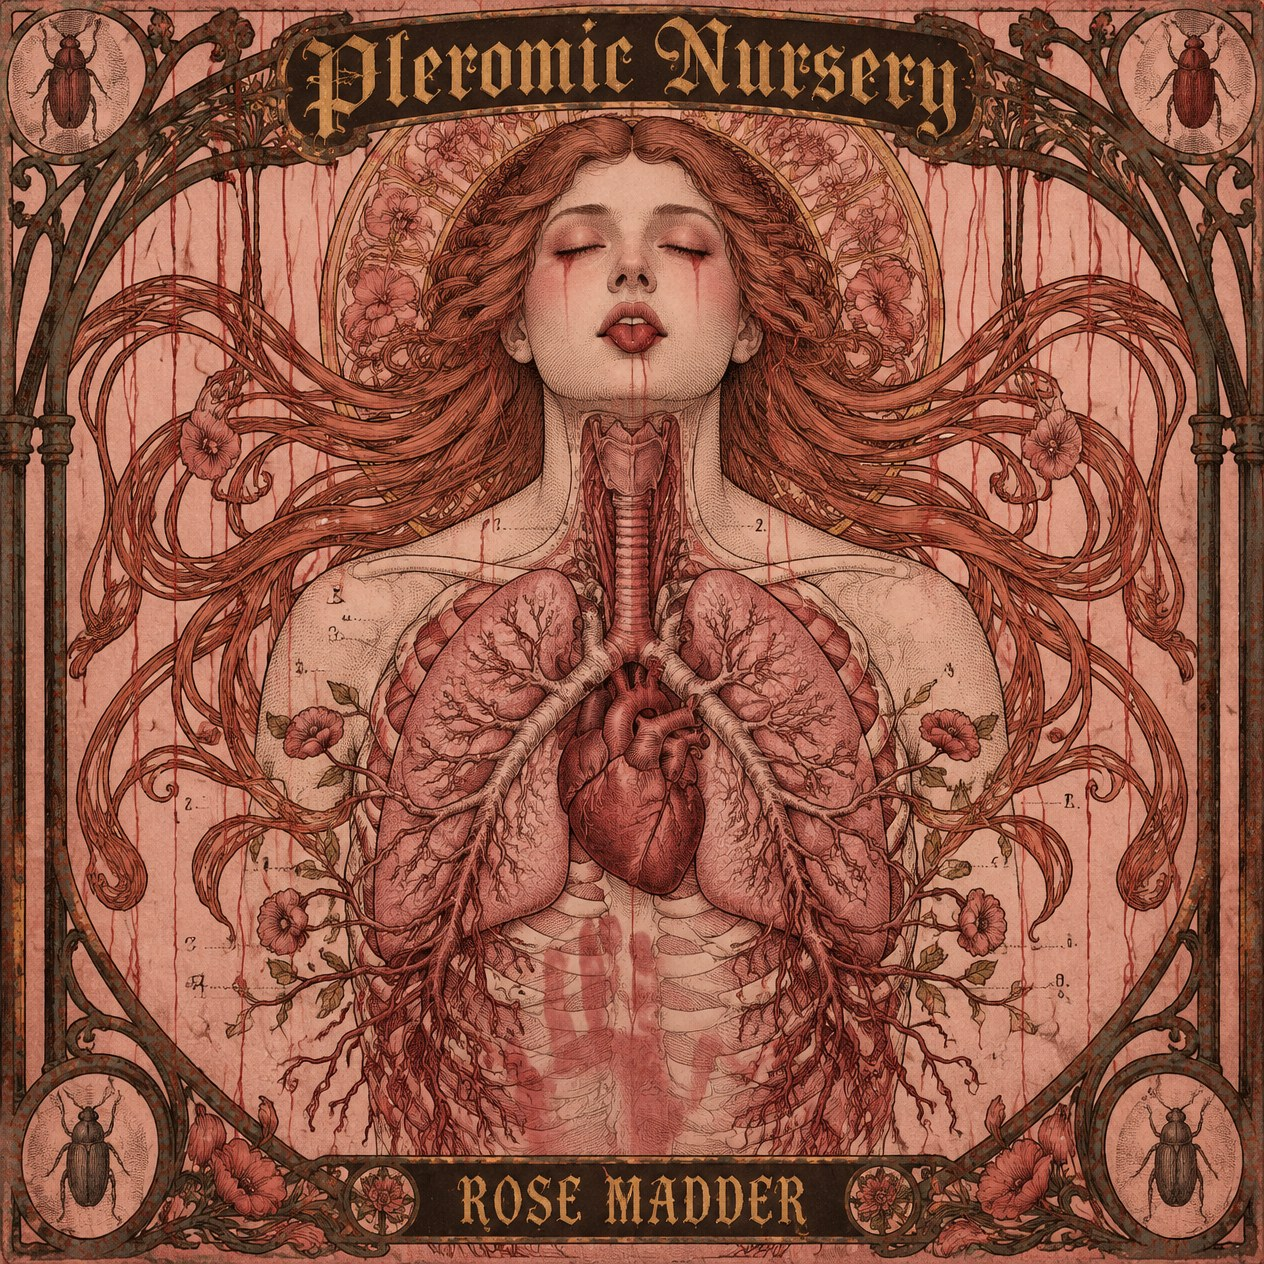
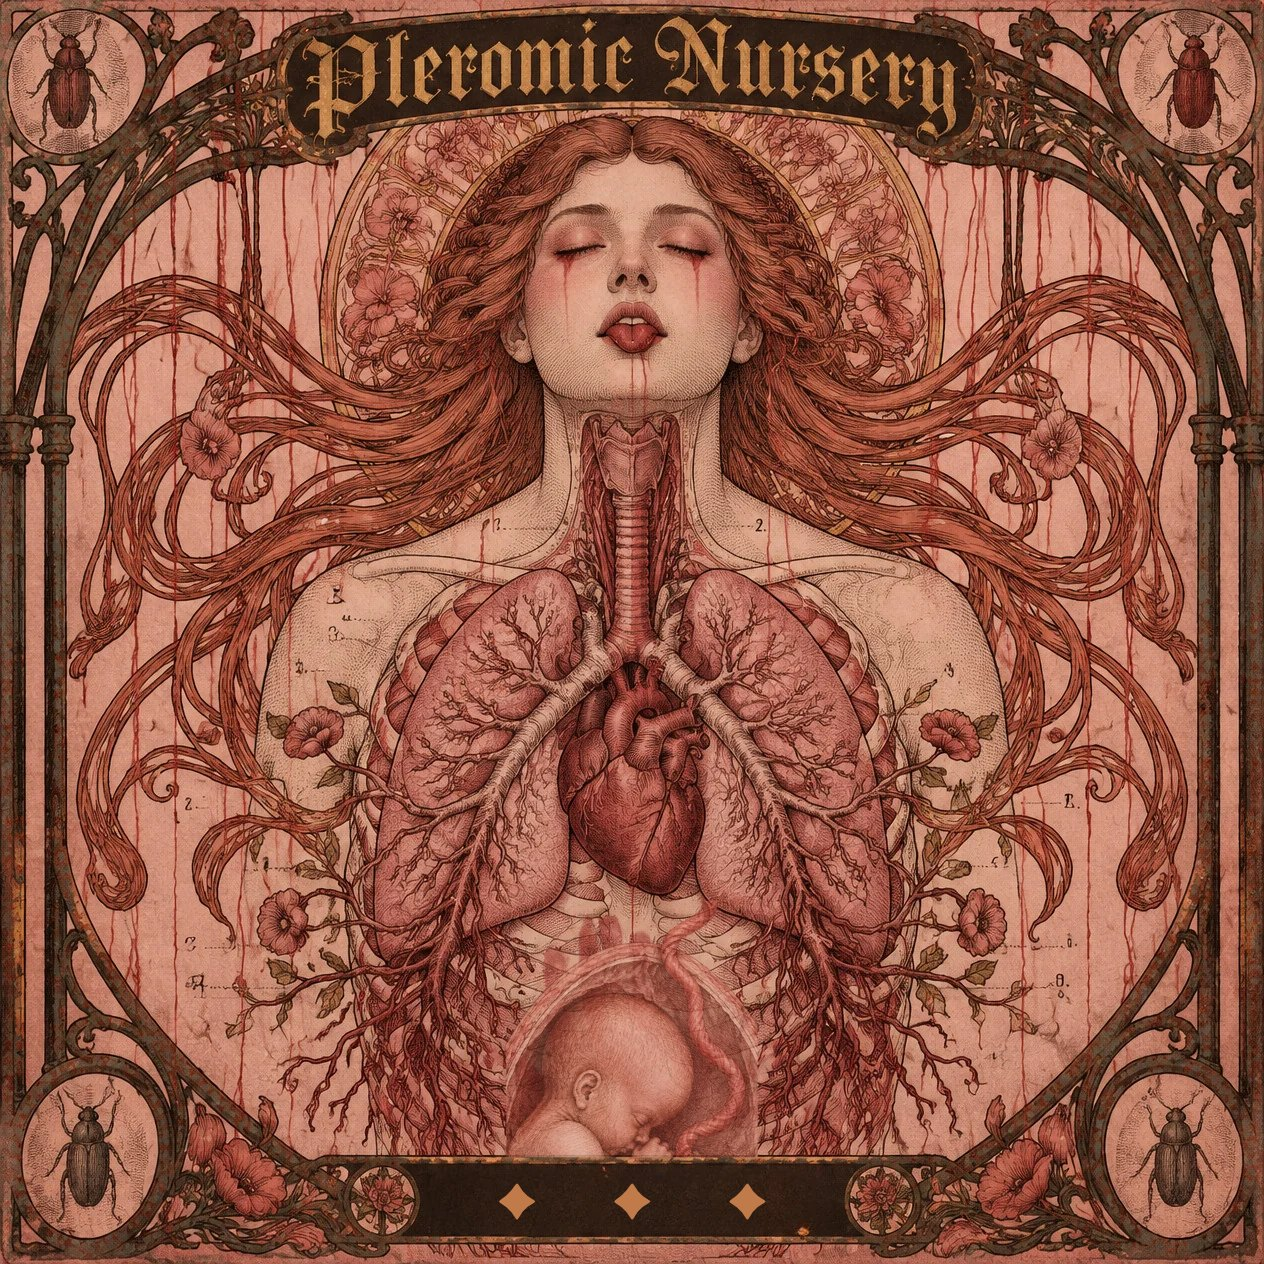
Windward Weave project page with event request form

Changed region(s): [[0.3394, 0.7097, 0.6479, 0.9873]]

diff --git a/assets/site.css b/assets/site.css
@@ -47,12 +47,12 @@ a:focus-visible, button:focus-visible, .row:focus-visible { outline: 2px solid v
 .border--left { left: 6px; transform: scaleX(-1); }
 
 /* ---------- Header ---------- */
-.masthead { position: relative; z-index: 4; display: flex; flex-wrap: wrap; align-items: center; justify-content: space-between; gap: 8px 32px; max-width: 1360px; margin: 0 auto; padding: 18px 24px; }
+.masthead { position: relative; z-index: 4; display: flex; flex-wrap: wrap; align-items: center; justify-content: space-between; gap: 8px 32px; max-width: 1360px; margin: 0 auto; padding: 18px var(--padx); } /* same side padding as .wrap, so the menu ends where the content does */
 .masthead--over { position: absolute; left: 0; right: 0; top: 0; }
 .brand { display: flex; align-items: center; gap: 14px; text-decoration: none; color: var(--gold); min-height: 44px; }
 .brand img { width: 115px; height: 115px; }
 .brand__name { font-family: var(--display); -webkit-text-stroke: 0.035em currentColor; font-size: 32px; line-height: 1; }
-.nav { display: flex; flex-wrap: wrap; gap: 0 28px; }
+.nav { display: flex; flex-wrap: wrap; gap: 0 22px; }
 .nav a { font-family: var(--caps); font-size: 14px; font-weight: 500; letter-spacing: 0.14em; text-transform: uppercase; color: var(--ink); text-decoration: none; padding: 12px 0; }
 .nav a:hover, .nav a[aria-current="page"] { color: var(--gold); }
 
@@ -97,7 +97,7 @@ a:focus-visible, button:focus-visible, .row:focus-visible { outline: 2px solid v
 }
 .tile { position: relative; flex: 0 0 calc(var(--h) * var(--w)); height: var(--h); margin: 0; scroll-snap-align: start; background: var(--paper); overflow: hidden; }
 .tile img { width: 100%; height: 100%; object-fit: cover; }
-.tile figcaption, .gallery__item figcaption, .release figcaption { position: absolute; left: 0; right: 0; bottom: 0; display: flex; justify-content: space-between; align-items: baseline; gap: 12px; padding: 48px 18px 16px; background: linear-gradient(180deg, rgba(46,16,24,0) 0%, rgba(46,16,24,0.9) 100%); }
+.tile figcaption, .gallery__item figcaption, .release figcaption, .project-card__caption { position: absolute; left: 0; right: 0; bottom: 0; display: flex; justify-content: space-between; align-items: baseline; gap: 12px; padding: 48px 18px 16px; background: linear-gradient(180deg, rgba(46,16,24,0) 0%, rgba(46,16,24,0.9) 100%); }
 .tile__title { font-style: italic; font-size: 21px; color: var(--ink); }
 .tile__note { font-family: var(--caps); font-size: 12px; letter-spacing: 0.14em; text-transform: uppercase; color: var(--madder); }
 
@@ -217,3 +217,60 @@ a:focus-visible, button:focus-visible, .row:focus-visible { outline: 2px solid v
 .gallery__item { position: relative; }
 .show-names [data-name]::before { content: attr(data-name); position: absolute; top: 10px; right: 10px; z-index: 2; padding: 6px 10px; background: rgba(46,16,24,0.92); color: var(--gold); font-family: var(--caps); font-size: 13px; letter-spacing: 0.08em; border-radius: 4px; opacity: 0; transition: opacity 0.15s; pointer-events: none; }
 .show-names [data-name]:hover::before, .show-names [data-name]:focus-within::before { opacity: 1; }
+
+/* ---------- Project pages (/projects) ---------- */
+.gallery--project { margin-bottom: 56px; }
+.project__story { margin: 0 auto 64px; }
+.request { padding-top: 24px; border-top: 1px solid var(--rose); }
+.request .intro { margin: 16px 0 32px; }
+
+/* Project cards on the Visual Art page. */
+.project-cards { display: grid; grid-template-columns: repeat(auto-fill, minmax(280px, 1fr)); gap: 20px; margin-bottom: 48px; }
+.project-card { position: relative; display: block; aspect-ratio: 4 / 3; overflow: hidden; background: var(--paper); text-decoration: none; }
+.project-card img { width: 100%; height: 100%; object-fit: cover; transition: transform 0.4s; }
+.project-card:hover img { transform: scale(1.03); }
+
+/* ---------- Art nouveau frame ----------
+   On wide screens the side borders join a top and bottom edge to make one frame:
+     - frame-corner.svg turns each border's three lines inward. It's drawn for the
+       top-right corner; the left border's mirror flip and scaleY(-1) cover the rest.
+     - frame-run.svg is stretched to draw the straight lines between a corner and the centre.
+     - frame-top-center.svg and frame-bottom-center.svg are the middle ornaments.
+   All the pieces put the lines at the same heights (14, 22, 30 from the top edge),
+   so they join seamlessly.
+   Narrower screens keep the original border flourishes. */
+:root {
+  --frame-h: 76px;
+}
+.frame { display: none; }
+
+@media (min-width: 1140px) {
+  .border {
+    top: var(--frame-h); bottom: var(--frame-h);
+    background: url("/assets/img/ornament/border-segment.svg") left top / 120px 900px repeat-y;
+    -webkit-mask: none; mask: none;
+  }
+  .border::before, .border::after {
+    content: ""; position: absolute; left: 0; width: 120px; height: var(--frame-h);
+    background: url("/assets/img/ornament/frame-corner.svg") 0 0 / 120px var(--frame-h) no-repeat;
+  }
+  .border::before { top: calc(-1 * var(--frame-h)); }
+  .border::after { bottom: calc(-1 * var(--frame-h)); transform: scaleY(-1); }
+
+  .frame {
+    display: flex; position: absolute; z-index: 3; pointer-events: none;
+    left: calc(6px + var(--bw)); right: calc(6px + var(--bw)); height: var(--frame-h);
+  }
+  .frame--top { top: 0; }
+  .frame--bottom { bottom: 0; }
+  .frame__center { flex: 0 0 200px; background: url("/assets/img/ornament/frame-top-center.svg") center / 200px var(--frame-h) no-repeat; }
+  .frame--bottom .frame__center { background-image: url("/assets/img/ornament/frame-bottom-center.svg"); }
+
+  /* The straight lines between a corner and the centre; the bottom edge is the same run flipped. */
+  .frame__run { flex: 1; background: url("/assets/img/ornament/frame-run.svg") 0 0 / 100% var(--frame-h) no-repeat; }
+  .frame--bottom .frame__run { transform: scaleY(-1); }
+
+  /* Room inside the frame for the header and footer. */
+  .masthead { padding-top: 64px; }
+  .footer { padding-bottom: calc(48px + var(--frame-h)); }
+}

diff --git a/assets/js/forms.js b/assets/js/forms.js
@@ -1,0 +1,26 @@
+// Shared by every form that books a call (the contact form, event requests, ...).
+// Mark a form with data-then-url="<Calendly link>". When it's submitted, this sends it to Netlify
+// in the background, then takes the visitor to that link with their name and email filled in.
+// If the background send fails, the form submits the normal way and its thank-you page takes over.
+document.querySelectorAll("form[data-then-url]").forEach(function (form) {
+  var status = form.querySelector("[role=status]");
+  var say = function (text) { if (status) status.textContent = text; };
+
+  form.addEventListener("submit", function (event) {
+    event.preventDefault();
+    form.querySelector("button[type=submit]").disabled = true;
+    say("Sending…");
+    fetch("/", {
+      method: "POST",
+      headers: { "Content-Type": "application/x-www-form-urlencoded" },
+      body: new URLSearchParams(new FormData(form)).toString(),
+    })
+      .then(function (response) {
+        if (!response.ok) throw new Error(response.status);
+        say("Thank you. Taking you to my calendar…");
+        var prefill = new URLSearchParams({ name: form.elements.name.value, email: form.elements.email.value });
+        location.href = form.dataset.thenUrl + "?" + prefill.toString();
+      })
+      .catch(function () { form.submit(); });
+  });
+});

diff --git a/_data/art.js b/_data/art.js
@@ -5,6 +5,7 @@ module.exports = {
   // The pieces shown on the home page, in order. Use the file names from the list below.
   featured: [
     "mosaic-face.jpg",
+    "windward-weave.jpg",
     "bound-heart.jpg",
     "haloed-woman.jpg",
     "chameleon.jpg",
@@ -20,6 +21,12 @@ module.exports = {
     "alt": "The eyes of the goddess over a gold-mended patchwork quilt, with a crocodile rising from water",
     "title": "Akhilanda Tapestry",
     "medium": "Fiber and digital"
+  },
+  {
+    "file": "windward-weave.jpg",
+    "alt": "The Windward Weave: a wall of knotted fabric strips in red light beneath a cluster of mirror balls",
+    "title": "The Windward Weave",
+    "medium": "Fiber"
   },
   {
     "file": "mosaic-face.jpg",

diff --git a/projects/projects.11tydata.js b/projects/projects.11tydata.js
@@ -1,0 +1,8 @@
+// Settings shared by every project page in this folder (Windward Weave, and later others).
+// Each project is a markdown file: its text is the page, and `photos` in its header is the gallery.
+// Photos live in /assets/img/projects/<file name of the project>/.
+module.exports = {
+  layout: "project.njk",
+  tags: "projects",
+  permalink: (data) => `/art/${data.page.fileSlug}/`,
+};

diff --git a/projects/windward-weave.md b/projects/windward-weave.md
@@ -1,0 +1,68 @@
+---
+title: The Windward Weave
+subtitle: "A hanging net, tied by many hands and woven by the wind. Never-Knot-Broken, it stands for Indra's net and the web of fate. Tie a knot, add to the net, and capture your prayers and intentions in the weave."
+description: "The Windward Weave, a hanging net tied by many hands, by JD Carlston of Madder Craft."
+# The gallery, in order. `file` is in /assets/img/projects/windward-weave/; `caption` is optional.
+photos:
+  - file: camp-at-night.jpg
+    alt: "The Weave hanging around a camp at dusk, its strips lit pink, green and gold beside trees washed in purple light"
+  - file: strips-in-sun.jpg
+    alt: "Close view of the strips in sunlight: red sari silk with elephants and birds, blue and gold patterns, purple and green"
+  - file: tying-knots.jpg
+    alt: "People reaching up under a canopy to tie their knots into the Weave, lit pink and gold"
+  - file: under-the-net.jpg
+    alt: "The Weave hung from the rafters of a wooden structure, strips drifting overhead in red, teal and violet light"
+  - file: disco-balls.jpg
+    alt: "A wall of the Weave in red light beneath a cluster of mirror balls"
+  - file: love.jpg
+    alt: "A hand holding a fabric-wrapped hoop with a glowing wire that spells love, against the green-lit strips"
+  - file: adding-a-knot.jpg
+    alt: "A guest tying a strip into the Weave in green and pink light"
+  - file: overhead.jpg
+    alt: "Rows of knotted strips hanging overhead in blue and red light"
+  - file: doorway.jpg
+    alt: "A curtain of strips in a doorway, lit blue, red and violet"
+  - file: sunlight-through.jpg
+    alt: "Sunlight breaking through the strips"
+  - file: jd-chick-weave.jpg
+    alt: "JD and Chick nose to nose, lit gold and red, with strands of the weave hanging beside them"
+# Turns on the "request this for your event" form at the bottom of the page (see _includes/event-request.njk).
+request:
+  heading: Bring the Weave to your event
+  text: "The Windward Weave travels to festivals, gatherings, weddings and ceremonies. It can hang as an installation, or come with a guided knot-tying ritual where your guests tie their own prayers and intentions into the net. Tell me about your event and you'll get my calendar link to talk it through."
+  options:
+    - The Weave as an installation
+    - The Weave with a guided knot-tying ritual
+    - Not sure yet
+---
+
+## The Myth of the Repair of Indra's Net
+
+In the beginning, **Indra** cast a net across the heavens, not to capture, but to *reflect*. At every crossing of the net, a jewel appeared. Each jewel held the image of every other jewel, so that nothing existed alone. When one shimmered, all shimmered. When one dimmed, the whole web remembered.
+
+Time passed. Things fell. Its baubles and jewels cracked and dropped. Stories frayed. The net trembled from the weight of time.
+
+That is when **Akhilandā** arrived, laughing softly.
+
+She did not come to fix the breaks. She came to *celebrate them*. Where the net had torn, she tied knots. Where threads had snapped, she stitched gold through the seams, not to hide the cracks, but to honor the fray, to fill the cracks with love.
+
+Indra watched as Akhilandā knelt among the fallen pieces.
+"Why knot what is broken?" he asked.
+
+"Because nothing here is broken alone," she said.
+"And nothing is finished becoming."
+
+So they worked together. Indra held the great pattern, remembering how all things touch. Akhilandā worked close to the ground, gathering fragments, inviting hands, teaching fingers how to listen.
+
+Each knot became a promise:
+*You belong.*
+
+Each stitch became a laugh:
+*You don't have to be whole to be held.*
+
+Thus the web was remade: not smoother, not stronger, but **truer**.
+
+The net still hangs between all worlds. When you tie a knot with intention, Indra sees the pattern shift. When you mend without erasing, Akhilandā smiles.
+
+Every broken part, yours included, has a place in the weave.
+*You are invited to join in Creation.*
